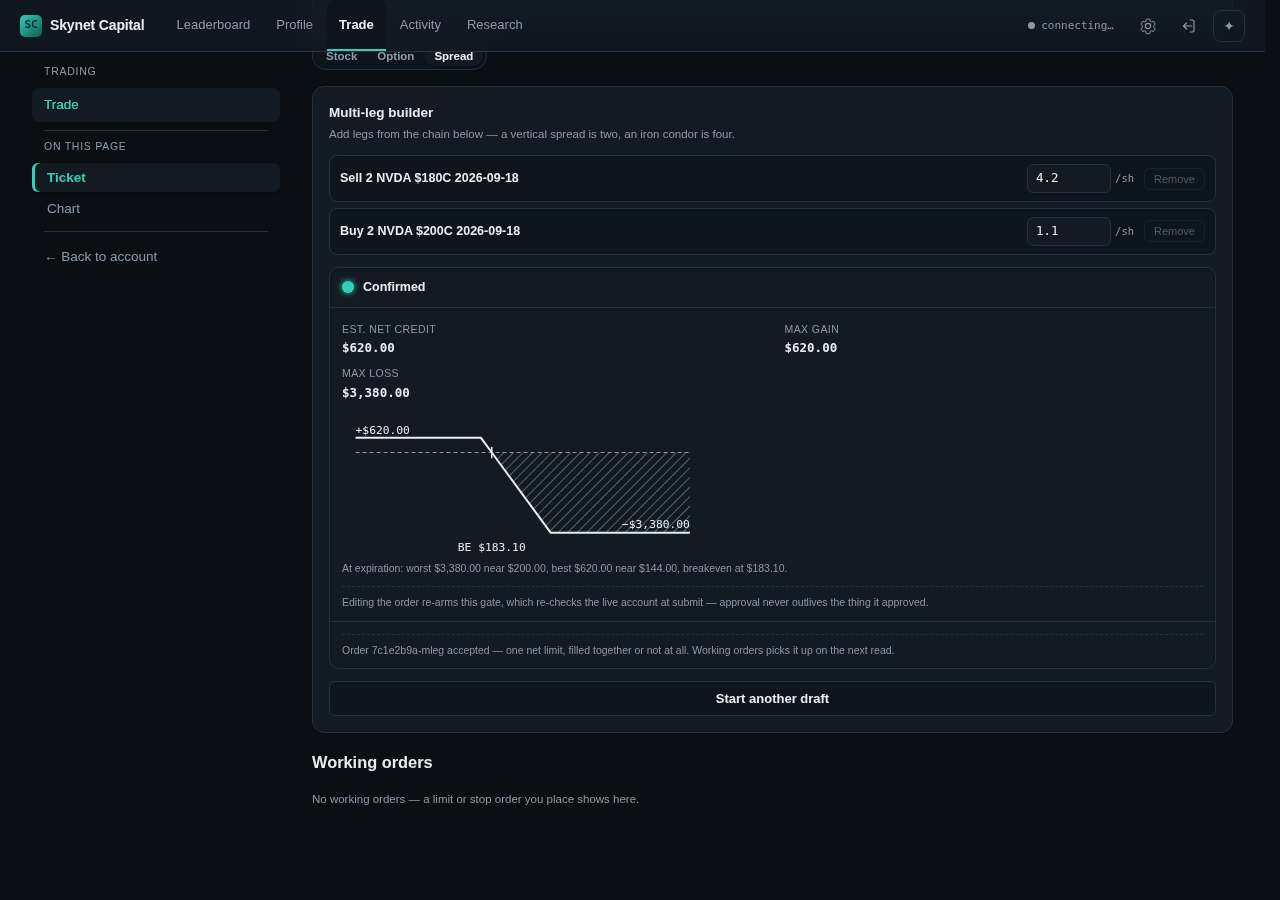
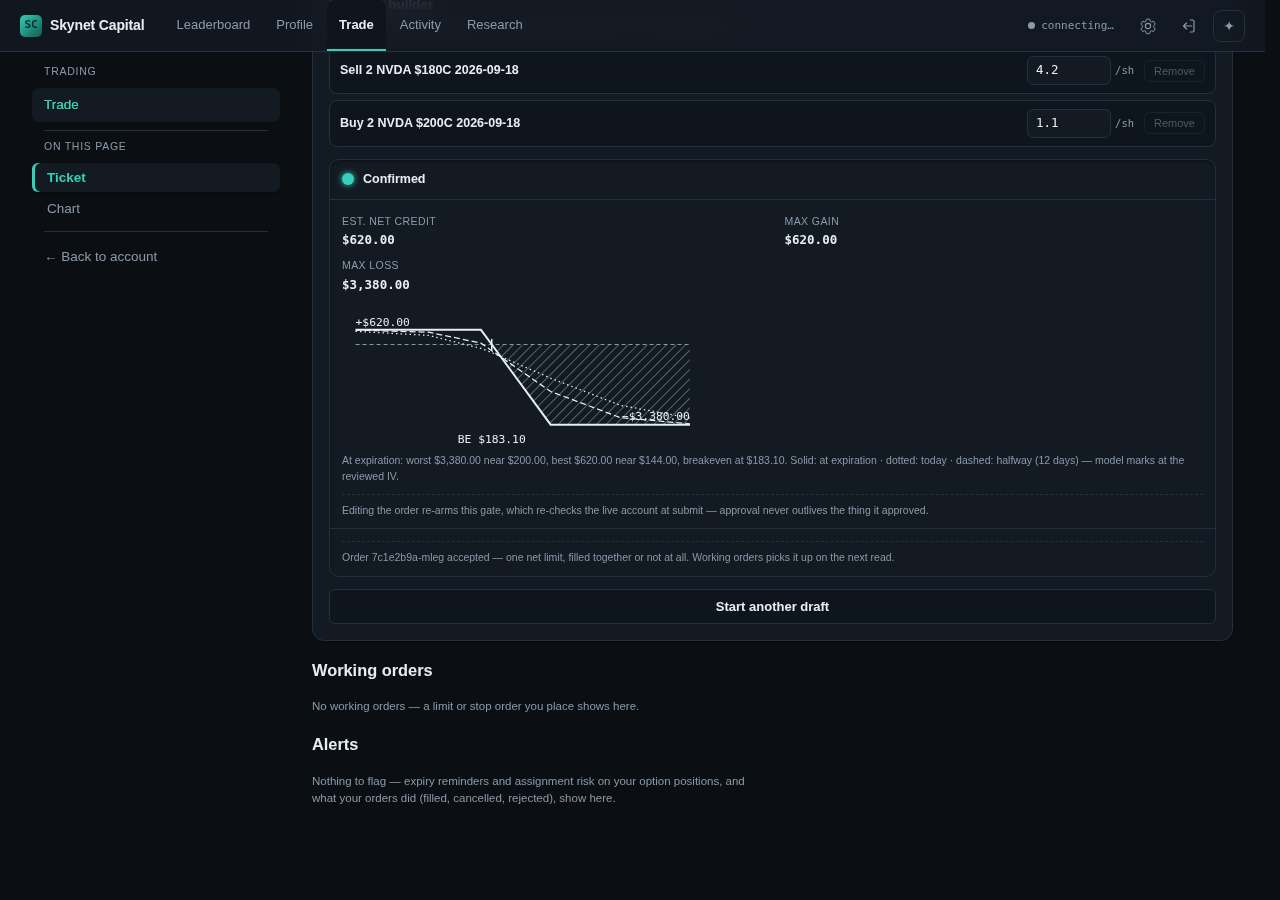
feat(trade): today and halfway model lines on the multi-leg payoff diagram, per-leg iv (#3407) (#3494)
## The picture

```mermaid
flowchart LR
  A[Draft legs: each with the premium the member set] -->|route reads one spot per underlying| B[legDatedModels: IV solved per leg + its own days to expiry]
  B --> C[datedCurves: today · halfway at half the NEAREST expiry]
  C --> D[Multi-leg review: solid expiration · dotted today · dashed halfway]
  A -.->|no spot, or a premium the solver can't invert| E[expiration line only — never a guessed leg]
```

_Caption — the builder's payoff diagram gains the model lines the
single-leg ticket already draws; frames at `docs/shots/spread-sent/`
(phone first) in this PR's Files tab (the session's write path defangs
inline image URLs)._

## Summary

- The multi-leg review's payoff diagram draws today and halfway model
lines, each leg's IV solved from its own premium.
- Drawn only when the requester's own options client gives every leg's
underlying a spot; otherwise expiration alone.
- Review live after deploy: /app/trade?play=401 → build two legs →
Review

<details>
<summary><strong>Why, acceptance &amp; the weeds</strong></summary>

### Why

#3451's follow-up: the single-leg ticket had one IV (solved from the
mid) and drew the T+0 and halfway lines; the multi-leg draft had none
per leg, so its chart stayed expiration-only. The draft carries every
leg's premium, and the route can read one spot per underlying through
the requester's own client, so each leg's IV is a solve, not a guess.

### Acceptance criteria (EARS)
[…]

diff --git a/src/trading/draft-order-preview.ts b/src/trading/draft-order-preview.ts
@@ -1,4 +1,6 @@
 import { type StructureLeg, structureValue } from "../options/payoff-surface.js";
+import { impliedVolatility } from "../options/pricing.js";
+import { daysToExpiryFrom } from "../options/single-leg-odds.js";
 import { type DraftLeg, type DraftOrder, undefinedRiskLegs } from "./draft-order.js";
 import { SHARES_PER_CONTRACT } from "./option-economics.js";
 
@@ -63,35 +65,47 @@ export interface DatedCurve {
   readonly points: readonly PayoffPoint[];
 }
 
-/** What the model needs beyond the legs to mark them before expiry. One IV for every leg —
- *  the single-leg ticket's own; a per-leg IV is the multi-leg builder's next slice. */
+/** What the model needs beyond a leg to mark it before expiry: its IV and its own clock. */
 export interface DatedModel {
   readonly volatility: number;
   readonly daysToExpiry: number;
 }
 
+/** One model for every leg (the single-leg ticket's own IV) or one per leg (the multi-leg
+ *  builder solves each leg's IV from the premium the member set, #3407 P4). */
+export type DatedModels = DatedModel | ((leg: DraftLeg) => DatedModel | undefined);
+
 /**
  * The T+0 and halfway lines through the same prices as the expiration curve, each point the
  * whole structure's model value less what opening it costs (`payoff-surface.ts`; European,
  * constant-vol, dividend-free — the pricing core's caveats carry over). Nothing for a contract
- * inside two days of expiry: today and halfway would both sit on the expiration line.
+ * inside two days of expiry, or for a leg the model cannot describe: today and halfway would
+ * both sit on the expiration line, or lie. Halfway is half of the NEAREST expiry, so no leg is
+ * marked past its own settlement.
  */
 export function datedCurves(
   legs: readonly DraftLeg[],
   prices: readonly number[],
-  model: DatedModel,
+  models: DatedModels,
   stock?: StockComponent,
 ): readonly DatedCurve[] | undefined {
-  if (!(model.daysToExpiry >= 2 && model.volatility > 0)) return undefined;
-  if (legs.some((leg) => leg.limitPrice === undefined)) return undefined;
-  const structure: StructureLeg[] = legs.map((leg) => ({
-    kind: leg.optionType,
-    quantity: (leg.action === "buy" ? 1 : -1) * leg.contracts,
-    strike: leg.strike,
-    daysToExpiry: model.daysToExpiry,
-    volatility: model.volatility,
-    entryPrice: leg.limitPrice ?? 0,
-  }));
+  if (legs.length === 0 || legs.some((leg) => leg.limitPrice === undefined)) return undefined;
+  const modelFor = typeof models === "function" ? models : () => models;
+  const structure: StructureLeg[] = [];
+  let nearest = Number.POSITIVE_INFINITY;
+  for (const leg of legs) {
+    const model = modelFor(leg);
+    if (!(model && model.daysToExpiry >= 2 && model.volatility > 0)) return undefined;
+    nearest = Math.min(nearest, model.daysToExpiry);
+    structure.push({
+      kind: leg.optionType,
+      quantity: (leg.action === "buy" ? 1 : -1) * leg.contracts,
+      strike: leg.strike,
+      daysToExpiry: model.daysToExpiry,
+      volatility: model.volatility,
+      entryPrice: leg.limitPrice ?? 0,
+    });
+  }
   if (stock) structure.push({ kind: "stock", quantity: stock.shares, entryPrice: stock.basis });
   const entryCost = structure.reduce(
     (sum, leg) =>
@@ -108,8 +122,52 @@ export function datedCurves(
     return { label, daysForward, points };
   };
   const today = line("today", 0);
-  const halfway = line("halfway", round2(model.daysToExpiry / 2));
+  const halfway = line("halfway", round2(nearest / 2));
   return today && halfway ? [today, halfway] : undefined;
+}
+
+/**
+ * Per-leg models for a multi-leg draft (#3407 P4): each leg's IV solved from the premium the
+ * member set against the underlying's spot, and its own days to expiry from the clock. A leg
+ * whose underlying has no spot, or whose premium the solver cannot invert, has no model — and
+ * `datedCurves` then draws nothing rather than a line with a guessed leg in it.
+ */
+export function legDatedModels(
+  spots: ReadonlyMap<string, number>,
+  now: Date,
+): (leg: DraftLeg) => DatedModel | undefined {
+  return (leg) => {
+    const spot = spots.get(leg.underlying);
+    const daysToExpiry = daysToExpiryFrom(leg.expiration, now);
+    if (spot === undefined || daysToExpiry === undefined || leg.limitPrice === undefined) {
+      return undefined;
+    }
+    const volatility = impliedVolatility({
+      spot,
+      strike: leg.strike,
+      daysToExpiry,
+      type: leg.optionType,
+      marketPrice: leg.limitPrice,
+    });
+    return volatility === undefined ? undefined : { volatility, daysToExpiry };
+  };
+}
+
+/** The preview with the dated lines attached when the model can draw them — the builder's own
+ *  review (`draft-order-route.ts`) hands in the spots it read; nothing else changes. */
+export function withDatedCurves(
+  preview: DraftPreview,
+  draft: DraftOrder,
+  spots: ReadonlyMap<string, number>,
+  now: Date,
+): DraftPreview {
+  if (!preview.payoff) return preview;
+  const dated = datedCurves(
+    draft.legs,
+    preview.payoff.points.map((p) => p.price),
+    legDatedModels(spots, now),
+  );
+  return dated ? { ...preview, payoff: { ...preview.payoff, dated } } : preview;
 }
 
 /** Shares riding along with the legs — a covered call's 100 held shares per contract, valued

diff --git a/src/server/draft-order-route.ts b/src/server/draft-order-route.ts
@@ -12,7 +12,7 @@ import {
 } from "../trading/draft-order.js";
 import type { DraftAccountContext } from "../trading/draft-order-account.js";
 import { validateDraftAccount } from "../trading/draft-order-account.js";
-import { draftPreview } from "../trading/draft-order-preview.js";
+import { draftPreview, withDatedCurves } from "../trading/draft-order-preview.js";
 import type { Session } from "./auth/session.js";
 import { requesterFor, resolveOwnedIds } from "./dashboard-identity.js";
 import type { DashboardServerConfig } from "./dashboard-server-config.js";
@@ -267,7 +267,10 @@ export async function serveDraftOrderApi(
   const reviewed = parseDraft(request.draft);
   const draft = applyAction(reviewed, request.action, account, progression);
   if (request.action.kind !== "submit" || draft.phase !== "submitted") {
-    sendJson(res, 200, { draft, preview: draftPreview(draft) });
+    sendJson(res, 200, {
+      draft,
+      preview: await previewWithDated(draft, request.participantId, config),
+    });
     return true;
   }
   sendJson(
@@ -280,6 +283,34 @@ export async function serveDraftOrderApi(
     ),
   );
   return true;
+}
+
+/**
+ * The payoff preview, with today / halfway model lines when the requester's own options client
+ * can give each leg's underlying a spot (#3407 P4 — the builder's counterpart to the single-leg
+ * ticket's dated lines; each leg's IV is solved from the premium the member set). One spot read
+ * per underlying per action; a failed read means expiration only, never a guessed line.
+ */
+async function previewWithDated(
+  draft: DraftOrder,
+  participantId: string,
+  config: DashboardServerConfig,
+): Promise<ReturnType<typeof draftPreview>> {
+  const preview = draftPreview(draft);
+  const client = config.optionsClientFor?.(participantId);
+  if (!(client && preview.pricedFully) || draft.legs.length === 0) return preview;
+  const underlyings = [...new Set(draft.legs.map((leg) => leg.underlying))];
+  const spots = new Map<string, number>();
+  try {
+    for (const [u, spot] of await Promise.all(
+      underlyings.map(async (u) => [u, await client.getUnderlyingPrice(u)] as const),
+    )) {
+      if (spot !== undefined) spots.set(u, spot);
+    }
+  } catch {
+    return preview;
+  }
+  return withDatedCurves(preview, draft, spots, config.now?.() ?? new Date());
 }
 
 /**

diff --git a/tests/server/draft-order-route.spec.ts b/tests/server/draft-order-route.spec.ts
@@ -143,6 +143,37 @@ describe("serveDraftOrderApi", () => {
     expect(parsed.preview.unlimitedLoss).toBe(false);
   });
 
+  it("attaches today / halfway model lines when the own options client can price the legs (P4)", async () => {
+    const client = { getUnderlyingPrice: () => Promise.resolve(181.3) };
+    const cfg = config({
+      optionsClientFor: () => client,
+      now: () => new Date("2026-09-01T14:00:00Z"),
+    });
+    const one = await call(
+      { participantId: "human-ann", draft: undefined, action: { kind: "add-leg", leg: CALL_LEG } },
+      cfg,
+    );
+    const { parsed } = await call(
+      {
+        participantId: "human-ann",
+        draft: one.parsed.draft,
+        action: { kind: "add-leg", leg: HIGHER_CALL_LEG },
+      },
+      cfg,
+    );
+    expect(parsed.preview.payoff.dated.map((line: { label: string }) => line.label)).toEqual([
+      "today",
+      "halfway",
+    ]);
+    // Without a client the curve is expiration-only — never a guessed line.
+    const bare = await call({
+      participantId: "human-ann",
+      draft: one.parsed.draft,
+      action: { kind: "add-leg", leg: HIGHER_CALL_LEG },
+    });
+    expect(bare.parsed.preview.payoff.dated).toBeUndefined();
+  });
+
   it("refuses to submit a draft that was never reviewed — review is the only path to fire", async () => {
     const { parsed } = await call({
       participantId: "human-ann",

diff --git a/tests/trading/draft-order-preview.spec.ts b/tests/trading/draft-order-preview.spec.ts
@@ -111,6 +111,26 @@ describe("draftPreview", () => {
     expect(halfway).toBeLessThan(expiry);
   });
 
+  it("takes one model per leg and marks halfway at half the NEAREST expiry", () => {
+    const spread = addLeg(addLeg(emptyDraft(), SHORT_CALL), {
+      ...LONG_CALL,
+      expiration: "2026-11-20",
+    });
+    const curve = payoffCurve(spread.legs);
+    if (!curve) throw new Error("expected a curve");
+    const prices = curve.points.map((p) => p.price);
+    const models = (leg: { expiration: string }) =>
+      leg.expiration === "2026-11-20"
+        ? { volatility: 0.35, daysToExpiry: 60 }
+        : { volatility: 0.4, daysToExpiry: 20 };
+    const dated = datedCurves(spread.legs, prices, models);
+    expect(dated?.[1]?.daysForward).toBe(10);
+    // A leg the model cannot describe means no line at all, never a guessed leg.
+    expect(
+      datedCurves(spread.legs, prices, (leg) => (leg.strike === 200 ? undefined : models(leg))),
+    ).toBeUndefined();
+  });
+
   it("draws no dated line inside two days of expiry, without an IV, or for an unpriced leg", () => {
     const short = addLeg(emptyDraft(), SHORT_CALL);
     const prices = [170, 180, 190];

diff --git a/docs/research/trading-parity-2026-09.md b/docs/research/trading-parity-2026-09.md
@@ -874,7 +874,7 @@ missing. Two prior decisions were added to §3.4: #674 (open orders live on the 
 | Watchlist | lists + pending badge [R22][R21] | multiple lists, sync [F27][F38] | linked, dynamic [T-Q] | missing | build (P4) | persisted member state |
 | Alerts / notifications | price, options, order-status push [R24][R25][R27] | four alert types, push/text/email [F38] | any value, push/email/SMS [T-AL] | **partial** (P4 slice 1) — `position-watch.ts` and `order-watch.ts` are the first member-facing producers on the #586 substrate (positions' standing conditions; the order ledger's recent lifecycle), surfaced as an Alerts strip on Trade with dismissals by fingerprint, durable on the volume (`jsonl-alert-dismissals.ts`); no delivery | delivery keys are Eric's step | push/email credentials (irreversible class) |
 | Greeks / probability on the order screen | tap-a-strike shows greeks + chance of profit [R36] | multi-select shows PoP, max P/L [F38] | Probability ITM/OTM columns [T-DP] | **built** (P2 slice 2) — greeks, IV from the mid, chance of profit beside expected value on the review (`src/options/single-leg-odds.ts`, `option-preview.tsx`) | build (P2) | done; the payoff diagram inline is the falsifier's next move |
-| Payoff diagram | Simulated Returns, P/L chart [R38][R40] | P/L calculator [F39] | Risk Profile [T-AN] | **built** on the multi-leg review and the single-leg ticket (`payoff-chart.tsx`); the single-leg ticket also draws today and halfway from `payoff-surface.ts` at the reviewed IV (dotted / dashed, named in the caption) | per-leg IV for the multi-leg builder's dated lines: next-slice | presentation only |
+| Payoff diagram | Simulated Returns, P/L chart [R38][R40] | P/L calculator [F39] | Risk Profile [T-AN] | **built** on the multi-leg review and the single-leg ticket (`payoff-chart.tsx`); both draw today and halfway from `payoff-surface.ts` (dotted / dashed, named in the caption) — the single-leg ticket at the reviewed IV, the multi-leg builder with each leg's IV solved from its own premium against the spot the route reads | a date slider on desktop: next-slice | presentation only |
 | Strategy templates / builder | Strategy Builder [R37] | strategy dropdown, Strategy Builder [F25][F34] | spread menu, Spread Hacker [T-VS][T-SCAN] | **built-unwired** — `rankStructures` + `outlook.ts` (#587, #2170) | build (P3) | presentation over the ranked list |
 | All expirations / LEAPS | scroll right [R34] | weekly/monthly/quarterly/all filters [F25] | weekly/quarterly toggles [T-SETUP] | **built** (P2 slice 1) — paginated with a 3-page budget and one 429 retry (`getExpirations`) | fix (P2) | done; weekly / monthly filters are a layout slice |
 | IV on the chain | IV metric [R36] | IV column [F-frames 13] | Impl Vol, SD strikes [T-AP] | missing on the desk | build (P2) | solve from mid via `pricing.ts` |
